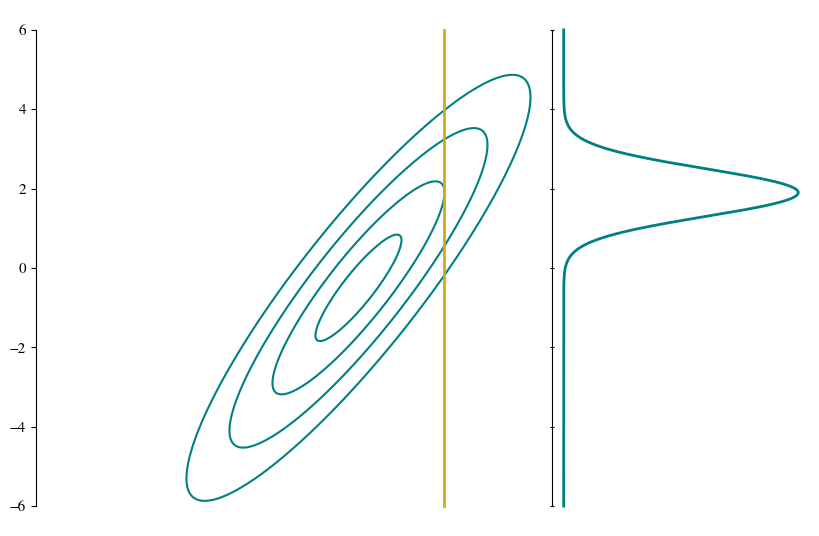
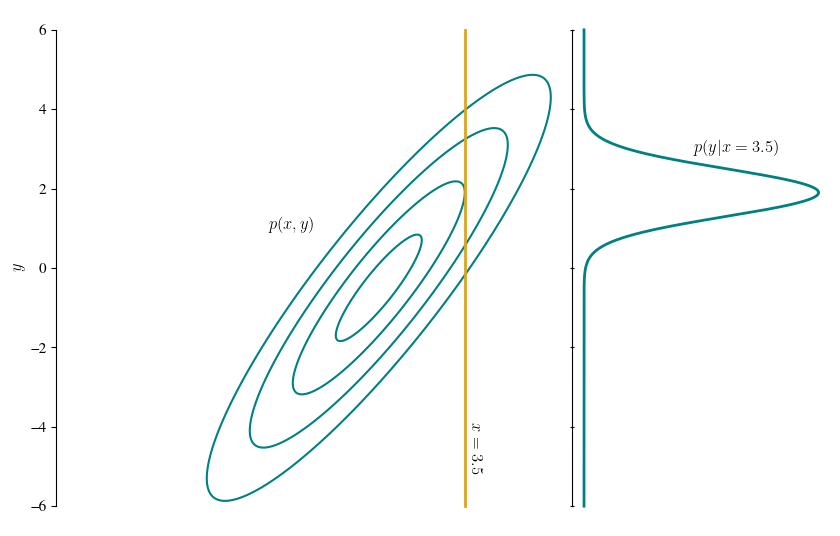
Docs: add text to kd inverse sampling section

diff --git a/docs/plots/2D_marginal.py b/docs/plots/2D_marginal.py
@@ -24,9 +24,9 @@ if __name__ == "__main__":
     ])
     
     # fig setup
-    asp = 6 / 7.5
+    asp = 6 / 8
     fig = plt.figure(figsize=(6, 6 / asp))
-    bottom = 0.04
+    bottom = 0.08
     left = 0.1
     right = 0.9
     dX = right - left
@@ -61,6 +61,13 @@ if __name__ == "__main__":
     
     # top panel: remove x labels and make ticks inout
     axt.tick_params(labelbottom=False, direction='inout')
+    
+    # axis label
+    axb.set_xlabel(r'$x$', usetex=True)
+    
+    # equations
+    axb.text(0.5, 0.6, r'$p(x, y)$', ha='right', va='top', transform=axb.transAxes, usetex=True)
+    axt.text(0.5, 0.6, r'$p(x)=\displaystyle\int dy\ p(x, y)$', ha='right', va='top', transform=axt.transAxes, usetex=True)
     
     # save
     fig.savefig("../source/assets/2D_marginal.png", bbox_inches='tight')

diff --git a/docs/plots/2D_conditional.py b/docs/plots/2D_conditional.py
@@ -68,6 +68,14 @@ if __name__ == "__main__":
     # right panel: remove y labels and make ticks inout
     axr.tick_params(labelleft=False, direction='inout')
     
+    # axis label
+    axl.set_ylabel(r'$y$', usetex=True)
+    
+    # equations
+    axl.text(0.5, 0.6, r'$p(x, y)$', ha='right', va='top', transform=axl.transAxes, usetex=True)
+    axl.text(0.8, 0.2, r'$x=3.5$', ha='left', va='top', transform=axl.transAxes, usetex=True, rotation=270)
+    axr.text(0.8, 0.75, r'$p(y | x=3.5)$', ha='right', va='top', transform=axr.transAxes, usetex=True)
+    
     # save
     fig.savefig("../source/assets/2D_conditional.png", bbox_inches='tight')
     

diff --git a/docs/source/theory/inverse_sampling_kd.md b/docs/source/theory/inverse_sampling_kd.md
@@ -1,6 +1,10 @@
 # Inverse Transform Sampling: kD
 
-Now, we can consider what happens in a multi-dimensional scenario, where we have a multivariate PDF $p(\mathbf{x}); \mathbf{x}=(x_0, x_1, ..., x_{k-1})$. Now, a few steps are added to the procedure. We first integrate successively over all of the dimensions to obtain a hierarchy of marginal distributions,
+The previous section described how inverse transform sampling works in one dimension. Now, we can consider what happens in a multi-dimensional scenario, where we have a multivariate PDF $p(\mathbf{x})$, where $\mathbf{x}=(x_0, x_1, ..., x_{k-1})$ is a vector of random variables.
+
+## Mathematical Description
+
+Compared with the 1D procedure, a few additional steps are introduced. We first integrate successively over all of the dimensions to obtain a hierarchy of marginal distributions,
 \begin{align}
 \begin{split}
    p(x_0, x_1, ..., x_{k-2}) &= \int p(\mathbf{x}) dx_{k-1}; \\
@@ -21,9 +25,14 @@ Looping back through these distributions, we can derive a cascade of conditional
 \end{split}
 \end{align}
 
-Then, to draw a sample $\mathbf{X}\sim p(\mathbf{x})$, we first draw a 1D sample along the first dimension $X_0 \sim p(x_0)$ using the univariate sampling procedure described above. Next, we draw a second 1D sample $X_1 \sim p(x_1 | x_0=X_0)$, then $X_2 \sim p(x_2 | x_0=X_0, x_1=X_1)$, and so on until the dimensions are exhausted.[^dimdep] We'll illustrate this process with an example. For simplicity of visualisation we'll take a 2D example, but the process works in any number of dimensions.
+Then, to draw a sample $\mathbf{X}\sim p(\mathbf{x})$, we first draw a 1D sample along the first dimension $X_0 \sim p(x_0)$ using the univariate sampling procedure described in the previous section. Next, we draw a second 1D sample $X_1 \sim p(x_1 | x_0=X_0)$, then $X_2 \sim p(x_2 | x_0=X_0, x_1=X_1)$, and so on until the dimensions are exhausted.[^dimdep] 
 
-For our 2D PDF, we'll take a 2-dimensional Gaussian with mean at $(1.5, -0.5)$ and a covariance matrix given by
+
+## Example: Setup
+
+We'll illustrate this process with an example. For simplicity of visualisation we'll take a 2D example, but the process works in any number of dimensions.
+
+For our 2D PDF over $x$ and $y$, we'll take a 2-dimensional Gaussian with mean $\mu \equiv (\mu_x, \mu_y) = (1.5, -0.5)$ and a covariance matrix given by
 \begin{equation}
    \Sigma \equiv
       \begin{pmatrix}
@@ -35,25 +44,57 @@ For our 2D PDF, we'll take a 2-dimensional Gaussian with mean at $(1.5, -0.5)$ a
       1.2 & 1.8
       \end{pmatrix}.
 \end{equation}
-There are two things to note about this covariance matrix. First, the $\Sigma_{yy}$ component is a little larger than the $\Sigma_{xx}$ element, which means the overall spread in the random variable $y$ is expected to be larger than the overall spread in $x$. Second, the off-diagonal elements are non-zero which means there is a correlation between the two variables, in this case positive. We can visualise the PDF with a contour plot, which illustrates both of these features:
+We can visualise this PDF with a contour plot:
 ```{figure} ../assets/2D_pdf.png
 :align: center
 ```
 Walking outwards from the centre, the four contour lines here are the 1-, 2-, 3-, and 4-$\sigma$ contours.
 
-We're going to use a really important property of the multivariate Gaussian distribution: marginal distributions of the multivariate Gaussian are themselves Gaussian. 
+
+## Example: $p(x)$ and $p(y|x)$
+
+According to the procedure outlined at the beginning of this section, we're going to need to derive two one-dimensional PDFs from this 2D PDF: $p(x)$ and $p(y|x)$.[^axswap] For $p(x)$, we can use the useful fact that marginal distributions of the multivariate Gaussian are also themselves Gaussian. In other words, $p(x)$ is a 1D Gaussian (normal) distribution with mean $\mu_x$ and standard deviation $\Sigma_{xx}$.[^marginalparams] This is illustrated in the plot below, where the lower panel shows the original 2D PDF $p(x, y)$ while the upper panel shows the marginal PDF $p(x)$.
 
 ```{figure} ../assets/2D_marginal.png
 :align: center
 ```
 
+Next, we need to derive the conditional PDF $p(y | x)$. Like marginal distributions, it turns out that conditional distributions of the multivariate Gaussian are also Gaussian,[^projections] with mean and variance given by[^matrixeqs]
+\begin{align}
+\begin{split}
+   \mu_{y|x} &=  \mu_y + \Sigma_{yx}\Sigma_{xx}^{-1}(x - \mu_x); \\
+   \Sigma_{y|x} &=  \Sigma_{yy} - \Sigma_{yx}\Sigma_{xx}^{-1}\Sigma_{xy}. \\
+\end{split}
+\end{align}
+As one might expect, unlike the marginal distribution $p(x)$, the conditional distribution $p(y|x)$ has a functional dependence on $x$ as well as $y$. To visualise it, we can take a single $x$ value and see the distribution over $y$. In particular, in the figure below we'll take $x=3.5$, so the mean $\mu_{y|x}=1.9$ and the variance $\Sigma_{y|x}=0.36$. The left-hand panel shows the original 2D PDF $p(x, y)$ while the right-hand panel shows $p(y | x=3.5)$. 
+
 ```{figure} ../assets/2D_conditional.png
 :align: center
 ```
 
+## Example: Sampling
+
+We now have everything we need to draw samples. The procedure runs as follows:
+
+1. Draw a uniform sample $U_1$.
+2. Use the 1D inverse transform sampling procedure to convert $U_1$ into a sample $X~p(x)$. Because the marginal PDF $p(x)$ is a Gaussian, this can be done analytically,[^probit] as we saw in the example accompanying the description of 1D inverse transform sampling.
+3. Given the sample $X$, calculate the parameters of the conditional PDF $p(y | x=X)$.
+4. Draw a second uniform sample $U_2$.
+5. Again using the 1D procedure, convert $U_2$ into a sample $Y~p(y|x=X)$.
+
+Then, $X$ and $Y$ together form a joint sample from $p(x, y)$.
+
+This procedure is animated below.
+
 ```{figure} ../assets/2D_animation.gif
 :align: center
 ```
+
 As in the univariate case, when the quantile functions for all of the conditional distributions are known, this procedure is an extremely rapid way of generating multivariate samples. However, when this is not the case and the quantile function is to be obtained numerically, the computational expense of the $k$-dimensional numerical integration grows rapidly with the number of dimensions.
 
 [^dimdep]: The key thing to note here is that the sampling distribution along each dimension in the loop is *conditioned on the sample values obtained on the earlier dimensions in the loop*.
+[^axswap]: We could equally do this the other way round, i.e., derive $p(y)$ and $p(x | y)$.
+[^marginalparams]: In this case, $\mu_x=1.5$ and $\Sigma_{xx}=1.0$.
+[^projections]: These facts regarding marginal and conditional distributions can be understood as saying that both *projections* and *slices* of a multivariate Gaussian give Gaussian images.
+[^matrixeqs]: These equations hold in general for an $m$-dimensional conditional slice of an $n$-dimensional Gaussian distribution. In such a case, $\mu_x, \mu_y$ are vectors (subvectors of the parent Gaussian's mean vector) and the various $\Sigma_{(...)}$ objects are matrices (submatrices of the parent Gaussian's covariance matrix). Here, however, these are all simply scalars.
+[^probit]: $X = \mathrm{probit}(U_1)$
